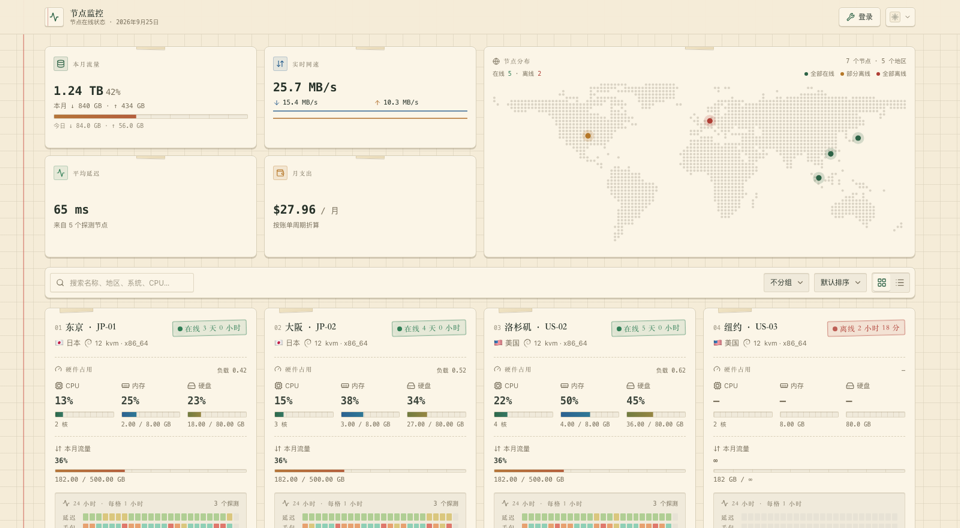
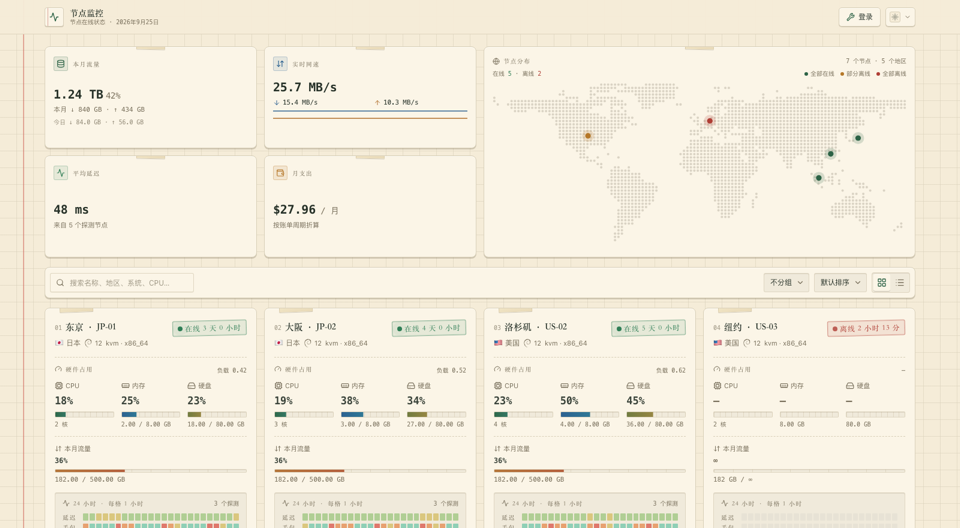
feat: 手机端概览卡改 2×2 居中、去进度条、页脚左对齐、手机换字体（v1.0.4）
- 概览卡窄屏排 2 列（4 张一屏看完），内容居中；sm 起恢复左对齐并回到共用栅格
- 上下行窄屏改成上下两行居中（170px 宽的卡片塞不下并排两段）
- 去掉「本月流量」里的进度条
- 页脚改成左对齐（去掉撑开右侧的弹性占位）
- 窄屏字体：宋体与等宽在小字号下发虚，统一换系统无衬线 + 等宽数字（tabular-nums），
  数字仍然逐位对齐；宽屏保留铅字 + 打字机的味道。中文栈补上鸿蒙 / MiSans
- README 的 8 张预览图同步重截

diff --git a/src/components/Summary.tsx b/src/components/Summary.tsx
@@ -1,7 +1,7 @@
 import type { ReactNode } from "react"
 import { Activity, ArrowDown, ArrowDownUp, ArrowUp, Database, Wallet } from "lucide-react"
 
-import { CARD_GRID, type IconType } from "@/components/Bits"
+import { type IconType } from "@/components/Bits"
 import { NodeMap } from "@/components/NodeMap"
 import { speedHistory, type Latency, type LatencyMap, type Node } from "@/lib/api"
 import { bytes, money, percent, rate } from "@/lib/format"
@@ -18,10 +18,17 @@ const BUBBLE: Record<TileTone, string> = {
 }
 
 /**
+ * 概览卡在**手机上排 2 列**（4 张卡一屏看完），节点卡仍是 1 列 ——
+ * 手机上卡片只有 170px 上下宽，节点卡那套信息塞不进两列。
+ * sm 起两边完全一致（2 / 3 / 4 列），列边界仍然严格对齐。
+ */
+const SUMMARY_GRID = "grid gap-3 grid-cols-2 lg:grid-cols-3 xl:grid-cols-4"
+
+/**
  * 概览卡。三件事必须一起成立，否则卡片就会「一块大一块小」：
  *   1. 卡片自己 h-full + flex-col —— 多出来的高度变成留白，而不是把卡片撑得参差不齐
- *   2. 栅格 auto-rows-fr —— 所有行等高
- *   3. 栅格与节点卡共用 CARD_GRID —— 上下两组的列边界严格对齐
+ *   2. lg 起靠栅格 auto-rows-fr 等高；窄屏靠 min-h 等高（那时地图整行铺满，不能开 auto-rows-fr）
+ *   3. sm 起与节点卡共用列宽 —— 上下两组的列边界严格对齐
  */
 function Tile({
   icon: Icon,
@@ -38,24 +45,32 @@ function Tile({
     // min-h 只在窄屏起作用：那时没有 auto-rows-fr，靠它让四张卡等高
     // （最矮的「平均延迟」和最高的「实时网速」差 50px）。
     // lg 起交回给 auto-rows-fr，卡片恢复按内容高度，不会平白多出空白。
-    <div className="rise paper relative flex h-full min-h-[9.5rem] flex-col overflow-hidden rounded-xl border p-3.5 pt-4 lg:min-h-0">
+    <div className="rise paper relative flex h-full min-h-[10rem] flex-col overflow-hidden rounded-xl border p-3.5 pt-4 lg:min-h-0">
       <span className="tape pointer-events-none absolute -top-2 left-1/2 h-3 w-12 -translate-x-1/2 rotate-1 rounded-[1px]" />
-      <div className="relative flex shrink-0 items-center gap-2 text-muted-foreground">
+      {/* 窄屏卡片窄，居中排更整齐；sm 起恢复左对齐（与节点卡一致） */}
+      <div className="relative flex shrink-0 items-center justify-center gap-2 text-muted-foreground sm:justify-start">
         <span className={cn("grid size-6 shrink-0 place-items-center rounded-[3px] border", BUBBLE[tone])}>
           <Icon className="size-3.5" />
         </span>
         <span className="label-caps text-[10px]">{label}</span>
       </div>
-      <div className="relative flex min-h-0 flex-1 flex-col justify-center gap-1 pt-1">{children}</div>
+      <div className="relative flex min-h-0 flex-1 flex-col items-center justify-center gap-1 pt-1 text-center sm:items-stretch sm:text-left">
+        {children}
+      </div>
     </div>
   )
 }
 
-/** 上下行。用两列等宽栅格而不是居中排：两列的起点固定，↓ 和 ↑ 的数值才对齐，
- *  也和上面那行大数字左对齐（居中排会和左对齐的数字错开） */
+/** 上下行。宽屏用两列等宽栅格（两列起点固定，↓ 和 ↑ 的数值才对齐，
+ *  也和上面那行大数字左对齐）；窄屏卡片只有 170px，一行塞不下两段，改成上下两行居中 */
 function Flow({ down, up, className }: { down: string; up: string; className?: string }) {
   return (
-    <div className={cn("ink grid grid-cols-2 gap-x-3", className)}>
+    <div
+      className={cn(
+        "ink grid justify-items-center gap-x-3 sm:grid-cols-2 sm:justify-items-stretch",
+        className,
+      )}
+    >
       <span className="inline-flex min-w-0 items-center gap-1">
         <ArrowDown className="size-3 shrink-0 text-info" />
         <span className="truncate">{down}</span>
@@ -127,9 +142,9 @@ export function Summary({
 
   return (
     // auto-rows-fr 只在 lg 起用：那时地图钉在右侧、纵向跨两行，需要各行等高才不会「一块大一块小」。
-    // 窄屏（1~2 列）地图是整行铺满、自己占一行，一旦也开 auto-rows-fr，
+    // 窄屏（2 列）地图是整行铺满、自己占一行，一旦也开 auto-rows-fr，
     // 地图那一行的高度（244px）会把 4 张概览卡一起拉成 244 —— 手机上一屏只看得下两张半。
-    <div className={cn(CARD_GRID, "lg:auto-rows-fr")}>
+    <div className={cn(SUMMARY_GRID, "lg:auto-rows-fr")}>
       <Tile icon={Database} label="本月流量" tone="primary">
         <div className="ink text-xl font-semibold">
           {nodes.length > 0 ? bytes(monthTotal) : "—"}
@@ -147,17 +162,6 @@ export function Summary({
         <div className="ink truncate text-[11px] text-muted-foreground">
           {nodes.length === 0 ? "还没有节点" : `本月 ↓ ${bytes(monthRx)} · ↑ ${bytes(monthTx)}`}
         </div>
-        {monthPct !== null && (
-          <div className="track h-2 w-full overflow-hidden rounded-[2px] border">
-            <div
-              className={cn(
-                "h-full origin-left transition-transform duration-700",
-                monthPct >= 90 ? "bar-danger" : "bar-net",
-              )}
-              style={{ transform: `scaleX(${monthPct / 100})` }}
-            />
-          </div>
-        )}
         <div className="ink truncate text-[10px] text-muted-foreground/80">
           今日 ↓ {bytes(dayRx)} · ↑ {bytes(dayTx)}
         </div>
@@ -168,7 +172,7 @@ export function Summary({
         <Flow down={rate(now.rx)} up={rate(now.tx)} className="text-[11px]" />
         {/* 固定高度：给 flex-1 + h-full 的话，SVG 会按 viewBox 比例（100:24）撑出
             78px 的固有高度，把整行顶到 190px，概览卡和地图卡都跟着虚胖 */}
-        <div className="flex h-10 shrink-0 items-end">
+        <div className="flex h-7 w-full shrink-0 items-end sm:h-10">
           <Spark
             series={[
               { values: speedHistory.map((s) => s.rx), className: "text-info" },

diff --git a/src/index.css b/src/index.css
@@ -239,12 +239,29 @@
   --color-heat-muted: var(--heat-muted);
   --color-rule: var(--rule);
 
-  --font-sans: ui-sans-serif, system-ui, -apple-system, "PingFang SC", "Hiragino Sans GB",
-    "Microsoft YaHei", sans-serif;
+  --font-sans: ui-sans-serif, system-ui, -apple-system, "PingFang SC", "HarmonyOS Sans SC", "MiSans",
+    "Hiragino Sans GB", "Microsoft YaHei", sans-serif;
   /* 标题用宋体，像铅字印刷；数字用等宽，像打字机 */
   --font-serif: "Songti SC", "Source Han Serif SC", "Noto Serif SC", "SimSun", Georgia,
     "Times New Roman", serif;
   --font-mono: ui-monospace, "SF Mono", SFMono-Regular, Menlo, Consolas, "Courier New", monospace;
+}
+
+/**
+ * 手机端的字体。
+ *
+ * 小字号下宋体的笔画会发虚（尤其是安卓上的 Noto Serif CJK），等宽数字也偏窄偏旧，
+ * 整页看着不利落。窄屏统一换成系统无衬线 + **等宽数字**（tabular-nums）：
+ * 既清晰，数字仍然逐位对齐，任何依赖等宽的对齐都不会散。
+ * 宽屏保留宋体标题与等宽数字的「铅字 + 打字机」味道。
+ *
+ * 这两条写在 @layer 外面：非分层样式优先级高于 Tailwind 的 theme 层，不用比顺序。
+ */
+@media (max-width: 639px) {
+  :root {
+    --font-serif: var(--font-sans);
+    --font-mono: var(--font-sans);
+  }
 }
 
 @layer base {

diff --git a/src/App.tsx b/src/App.tsx
@@ -129,7 +129,6 @@ function Footer({ nodes, updatedAt }: { nodes: Node[] | null; updatedAt: number 
       <div className="flex flex-wrap items-center gap-x-3 gap-y-1.5 border-t border-dashed border-border pt-3 text-[11px] text-muted-foreground">
         <span className="label-caps text-[10px] text-foreground/70">noteee</span>
         <span className="ink">v{VERSION}</span>
-        <span className="hidden h-px flex-1 border-t border-dashed border-border/70 sm:block" />
         <span className="ink">
           共 {list.length} 个节点 · {online} 在线
           {offline > 0 && ` · ${offline} 离线`}
